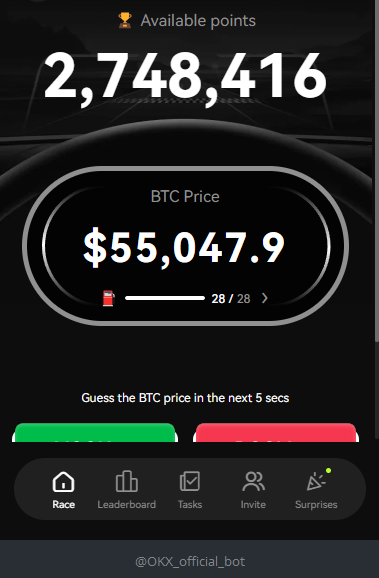
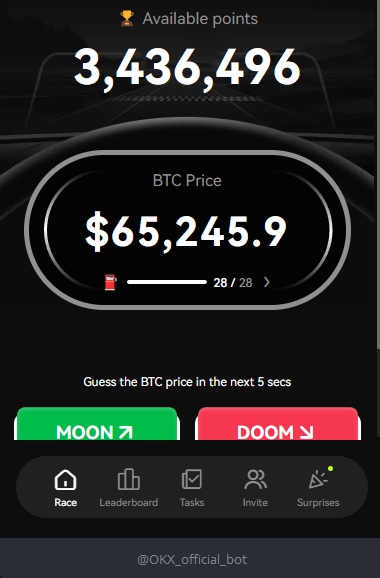
Update UI detection

diff --git a/okx_racer.py b/okx_racer.py
@@ -22,8 +22,8 @@ def open_game() -> tuple[int, int, int, int]:
 
 
 def click_button(okx_window: tuple[int, int, int, int], ocr: easyocr.Reader, fuel_cycles: int) -> None:
-    before_price_window = (okx_window[0]+110, okx_window[1]+230, okx_window[2]-200, okx_window[3]-530)
-    realtime_price_window = (okx_window[0]+196, okx_window[1]+191, okx_window[2]-310, okx_window[3]-561)
+    before_price_window = (okx_window[0]+110, okx_window[1]+215, okx_window[2]-200, okx_window[3]-530)
+    realtime_price_window = (okx_window[0]+198, okx_window[1]+175, okx_window[2]-310, okx_window[3]-560)
 
     i = 1
     while i < fuel_cycles:
